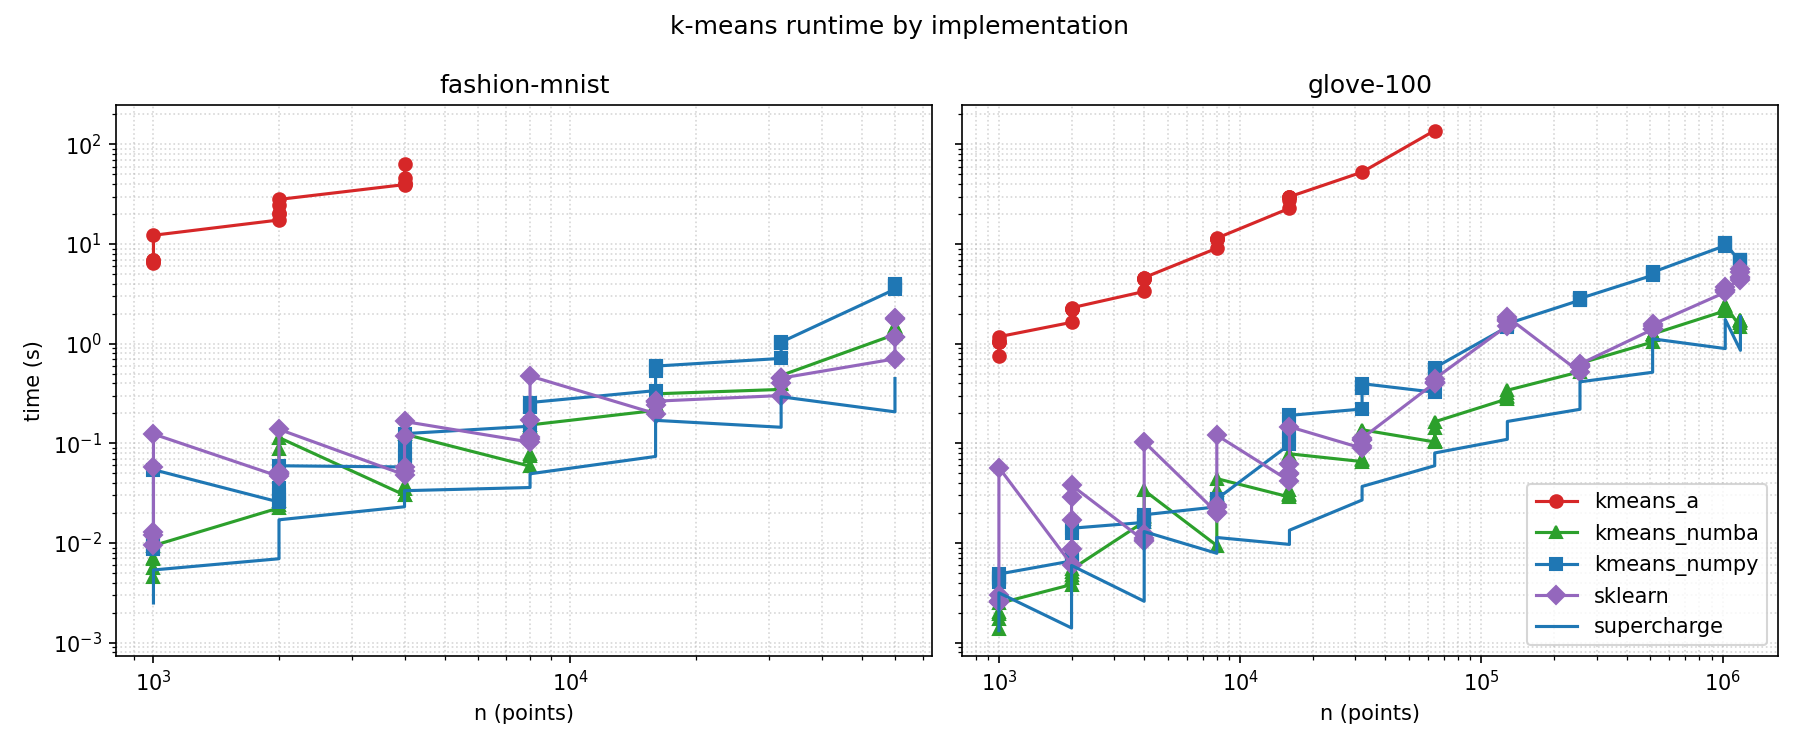
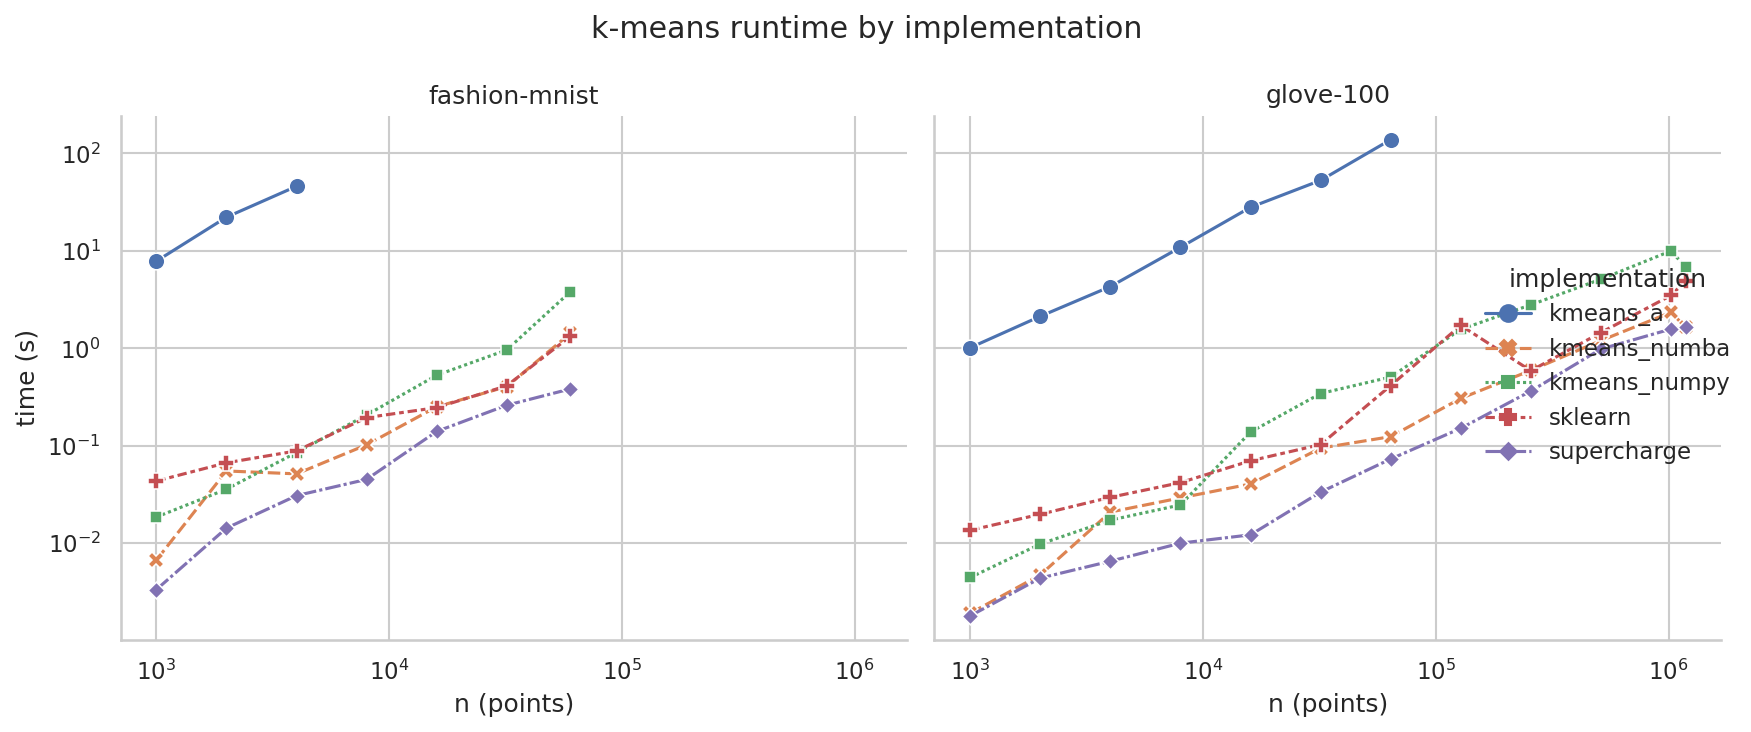
update plotting

diff --git a/plot.py b/plot.py
@@ -1,62 +1,49 @@
 import argparse
-import csv
-from collections import defaultdict
 
 import matplotlib.pyplot as plt
+import polars as pl
 import seaborn as sns
 
 RESULTS_PATH = "results.csv"
 OUTPUT_PATH = "performance.png"
 
-IMPL_STYLE = {
-    "kmeans_a":     {"color": "#d62728", "marker": "o"},
-    "kmeans_numpy": {"color": "#1f77b4", "marker": "s"},
-    "kmeans_numba": {"color": "#2ca02c", "marker": "^"},
-    "sklearn":      {"color": "#9467bd", "marker": "D"},
-}
-
-
 def load_results(path):
-    # (dataset, implementation) -> list of (n, time_seconds)
-    series = defaultdict(list)
-    with open(path, newline="") as f:
-        for row in csv.DictReader(f):
-            series[(row["dataset"], row["implementation"])].append(
-                (int(row["n"]), float(row["time_seconds"]))
-            )
-    for key in series:
-        series[key].sort()
-    return series
-
-
-def plot(series, output):
-    datasets = sorted({d for d, _ in series})
-    implementations = sorted({i for _, i in series})
-
-    fig, axes = plt.subplots(
-        1, len(datasets), figsize=(6 * len(datasets), 5), sharey=True, squeeze=False,
+    # Average the (possibly multiple) runs for each (dataset, implementation, n).
+    return (
+        pl.read_csv(path)
+        .group_by("dataset", "implementation", "n")
+        .agg(pl.col("time_seconds").mean())
+        .sort("dataset", "implementation", "n")
     )
-    axes = axes[0]
 
-    for ax, dataset in zip(axes, datasets):
-        for impl in implementations:
-            points = series.get((dataset, impl), [])
-            if not points:
-                continue
-            xs, ys = zip(*points)
-            style = IMPL_STYLE.get(impl, {})
-            ax.plot(xs, ys, label=impl, linewidth=1.5, markersize=6, **style)
-        ax.set_xscale("log")
-        ax.set_yscale("log")
-        ax.set_xlabel("n (points)")
-        ax.set_title(dataset)
-        ax.grid(True, which="both", linestyle=":", alpha=0.5)
 
-    axes[0].set_ylabel("time (s)")
-    axes[-1].legend(loc="best", frameon=True)
-    fig.suptitle("k-means runtime by implementation")
-    fig.tight_layout()
-    fig.savefig(output, dpi=150)
+def plot(df, output):
+    implementations = sorted(df["implementation"].unique())
+
+    sns.set_theme(style="whitegrid")
+    grid = sns.relplot(
+        data=df.to_pandas(),
+        x="n",
+        y="time_seconds",
+        hue="implementation",
+        style="implementation",
+        col="dataset",
+        kind="line",
+        # palette=palette,
+        markers=True,
+        hue_order=implementations,
+        style_order=implementations,
+        markersize=8,
+        linewidth=1.5,
+        facet_kws={"sharey": True},
+    )
+
+    grid.set(xscale="log", yscale="log")
+    grid.set_axis_labels("n (points)", "time (s)")
+    grid.set_titles("{col_name}")
+    grid.figure.suptitle("k-means runtime by implementation")
+    grid.figure.tight_layout()
+    grid.savefig(output, dpi=150)
     print(f"Wrote {output}")
 
 
@@ -67,9 +54,9 @@ if __name__ == "__main__":
     parser.add_argument("--show", action="store_true", help="Also display the figure interactively.")
     args = parser.parse_args()
 
-    series = load_results(args.input)
-    if not series:
+    df = load_results(args.input)
+    if df.is_empty():
         raise SystemExit(f"No rows found in {args.input}")
-    plot(series, args.output)
+    plot(df, args.output)
     if args.show:
         plt.show()